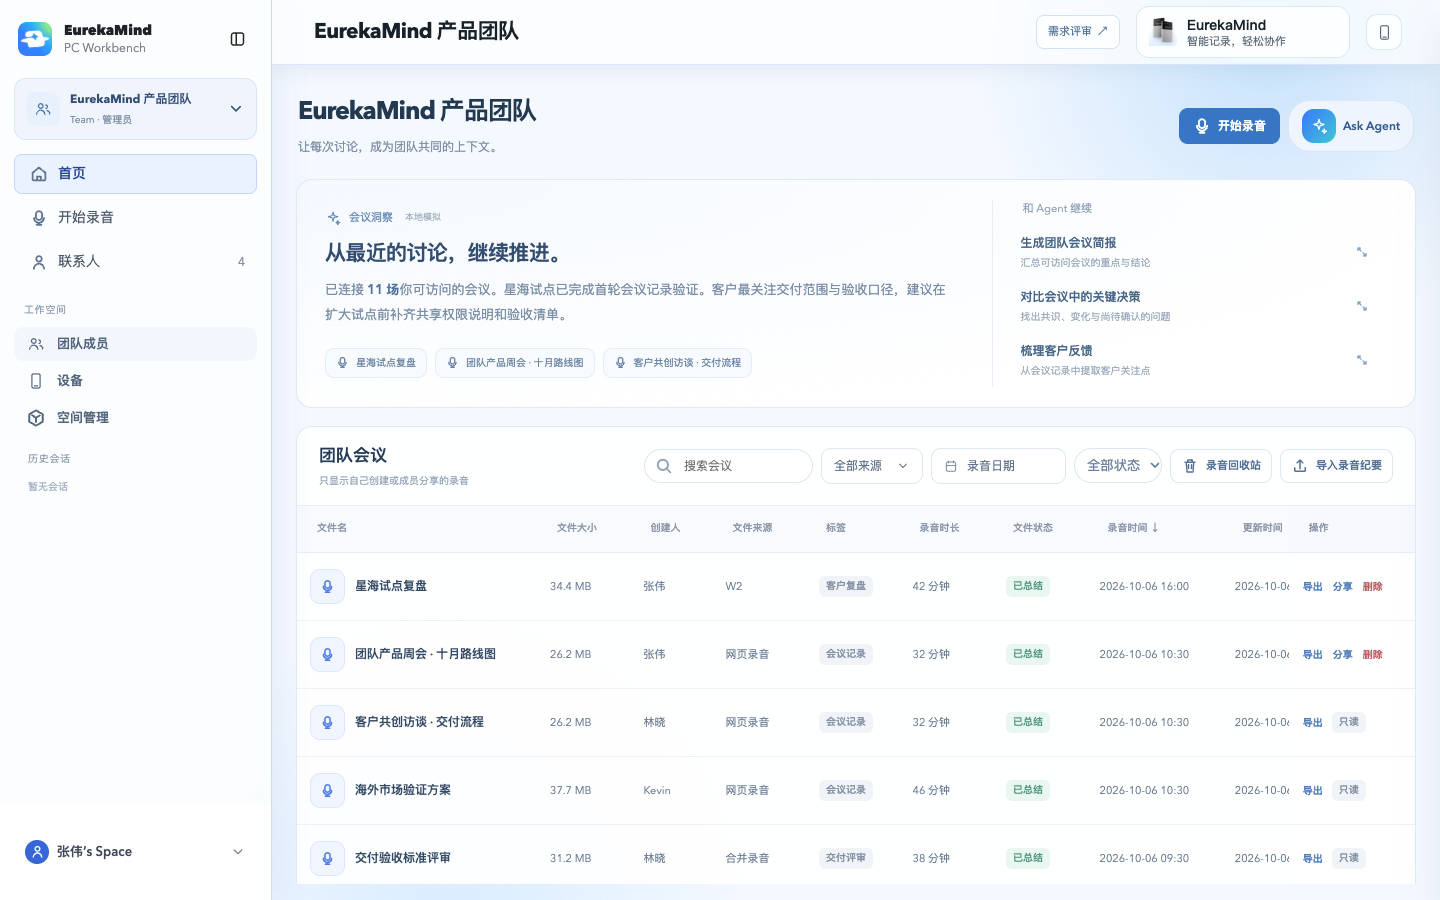
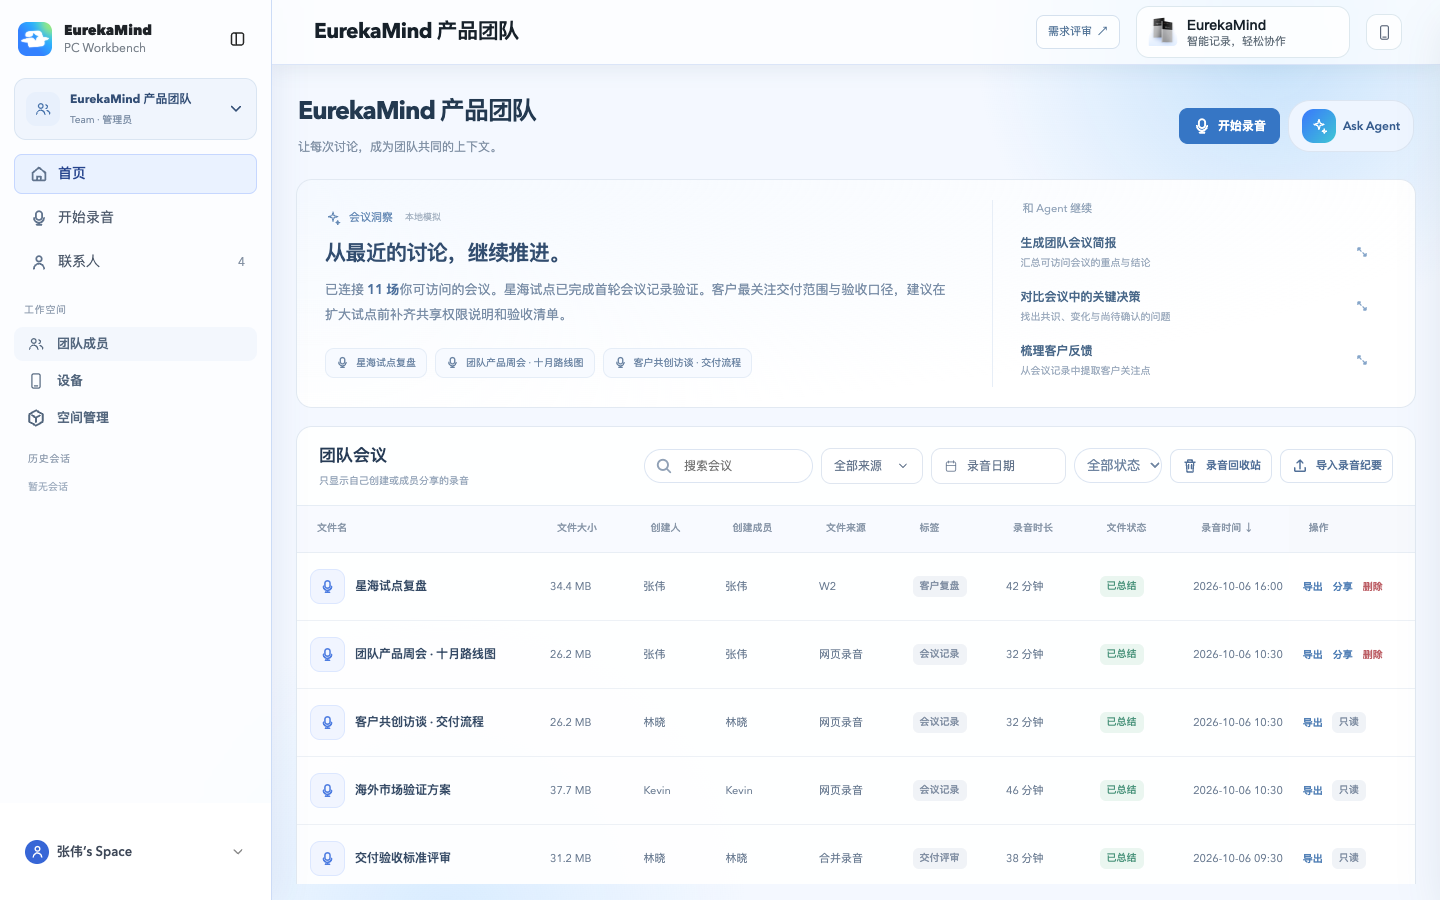
fix: keep creating member visible in the meeting table

diff --git a/src/prototype/one-to-one-reference/assets/workspace-ui.js b/src/prototype/one-to-one-reference/assets/workspace-ui.js
@@ -79,8 +79,8 @@
   }
   function meetingTable(){
     const list=recordingList(),pages=Math.max(1,Math.ceil(list.length/10));listPage=Math.min(listPage,pages);
-    const columns=filter==='trash'?['文件名','文件大小','文件来源','录音时间','删除时间','操作']:['文件名','文件大小','创建人','文件来源','标签','录音时长','文件状态','录音时间','更新时间','创建成员','操作'];
-    return `<div class="ws-table-scroll ws-recording-scroll" role="region" aria-label="团队会议录音列表" tabindex="0"><table class="ws-table ws-recording-table"><thead><tr>${columns.map(t=>`<th>${['录音时间','更新时间'].includes(t)?btn('sort',t+(sortKey===(t==='录音时间'?'created':'updated')?(sortAsc?' ↑':' ↓'):''),'link',t==='录音时间'?'created':'updated'):t}</th>`).join('')}</tr></thead><tbody>${list.slice((listPage-1)*10,listPage*10).map(f=>`<tr><td>${filter==='trash'?esc(f.title):`<button class="ws-file-link" data-ws-action="file" data-value="${esc(f.id)}">${icon('mic')}<strong>${esc(f.title)}</strong></button>`}</td><td>${esc(f.size||'—')}</td>${filter==='trash'?`<td>${esc(f.source)}</td><td>${date(f.created)}</td><td>${date(f.deletedAt)}</td><td><div class="ws-actions">${btn('restore','恢复','link',f.id)}${btn('purge','永久删除','link danger',f.id)}</div></td>`:`<td>${esc(f.creator||userName(f.owner))}</td><td>${esc(f.source)}</td><td>${(f.tags||[]).map(t=>badge(t)).join(' ')}</td><td>${f.duration} 分钟</td><td>${badge(f.status||'已总结','green')}</td><td>${date(f.created)}</td><td>${date(f.updated||f.created)}</td><td>${esc(userName(f.owner))}</td><td><div class="ws-actions">${btn('export','导出','link',f.id)}${f.owner===actor?btn('share','分享','link',f.id)+btn('delete','删除','link danger',f.id):badge('只读')}</div></td>`}</tr>`).join('')}</tbody></table></div>${!list.length?empty(filter==='trash'?'回收站暂无内容':'没有符合条件的会议','调整筛选，或开始一场新的录音。'):''}<div class="ws-table-foot ws-pagination"><span>共 ${list.length} 个会议笔记 · ${listPage} / ${pages} 页</span><div class="ws-actions">${btn('list-prev','上一页','','',listPage<=1?'disabled':'')}${btn('list-next','下一页','','',listPage>=pages?'disabled':'')}</div></div>`;
+    const columns=filter==='trash'?['文件名','文件大小','文件来源','录音时间','删除时间','操作']:['文件名','文件大小','创建人','创建成员','文件来源','标签','录音时长','文件状态','录音时间','更新时间','操作'];
+    return `<div class="ws-table-scroll ws-recording-scroll" role="region" aria-label="团队会议录音列表" tabindex="0"><table class="ws-table ws-recording-table"><thead><tr>${columns.map(t=>`<th>${['录音时间','更新时间'].includes(t)?btn('sort',t+(sortKey===(t==='录音时间'?'created':'updated')?(sortAsc?' ↑':' ↓'):''),'link',t==='录音时间'?'created':'updated'):t}</th>`).join('')}</tr></thead><tbody>${list.slice((listPage-1)*10,listPage*10).map(f=>`<tr><td>${filter==='trash'?esc(f.title):`<button class="ws-file-link" data-ws-action="file" data-value="${esc(f.id)}">${icon('mic')}<strong>${esc(f.title)}</strong></button>`}</td><td>${esc(f.size||'—')}</td>${filter==='trash'?`<td>${esc(f.source)}</td><td>${date(f.created)}</td><td>${date(f.deletedAt)}</td><td><div class="ws-actions">${btn('restore','恢复','link',f.id)}${btn('purge','永久删除','link danger',f.id)}</div></td>`:`<td>${esc(f.creator||userName(f.owner))}</td><td>${esc(userName(f.owner))}</td><td>${esc(f.source)}</td><td>${(f.tags||[]).map(t=>badge(t)).join(' ')}</td><td>${f.duration} 分钟</td><td>${badge(f.status||'已总结','green')}</td><td>${date(f.created)}</td><td>${date(f.updated||f.created)}</td><td><div class="ws-actions">${btn('export','导出','link',f.id)}${f.owner===actor?btn('share','分享','link',f.id)+btn('delete','删除','link danger',f.id):badge('只读')}</div></td>`}</tr>`).join('')}</tbody></table></div>${!list.length?empty(filter==='trash'?'回收站暂无内容':'没有符合条件的会议','调整筛选，或开始一场新的录音。'):''}<div class="ws-table-foot ws-pagination"><span>共 ${list.length} 个会议笔记 · ${listPage} / ${pages} 页</span><div class="ws-actions">${btn('list-prev','上一页','','',listPage<=1?'disabled':'')}${btn('list-next','下一页','','',listPage>=pages?'disabled':'')}</div></div>`;
   }
   function overview(){
     const recordings=M.visible(w(),actor).slice().sort((a,b)=>String(b.created).localeCompare(String(a.created))),recent=recordings.slice(0,3);
